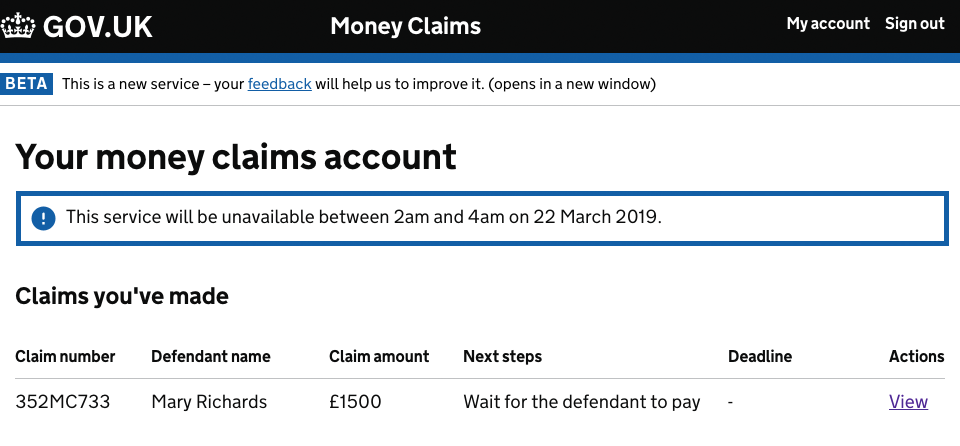
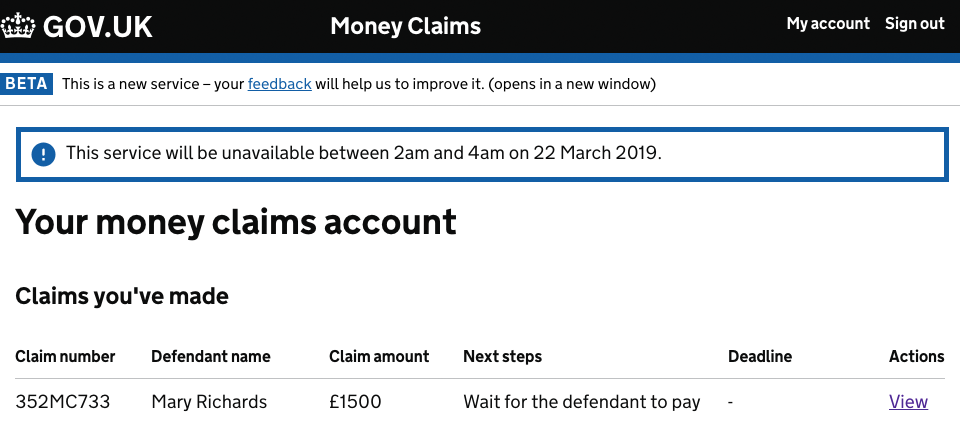
Updates to downtime warning pattern

Changed region(s): [[0.0, 0.2623, 1.0, 0.5538]]

diff --git a/app/views/patterns/be-informed-of-downtime/README.md b/app/views/patterns/be-informed-of-downtime/README.md
@@ -1,11 +1,6 @@
 Inform users of upcoming downtime.
 
-{{dsExample({
-  section: 'patterns',
-  name: 'be-informed-of-downtime',
-  example: 'information',
-  height: 175
-})}}
+<img src="/public/images/downtime-warning.png" alt="A screenshot of the downtime warning pattern in use. It is placed directly above the H1." />
 
 ## When to use this pattern
 
@@ -13,7 +8,7 @@ Use this pattern when you know in advance that your service will be unavailable.
 
 ## How it works
 
-<img src="/public/images/downtime-warning.png" alt="A screenshot of the downtime warning pattern in use. It is placed directly below the H1." />
+The pattern uses the information variant of the <a href="/components/banner">banner pattern</a>.
 
 The banner should be shown on the first page the user sees after logging in, and then not shown again for that session. If they log in again before the downtime, it would be shown again.
 
